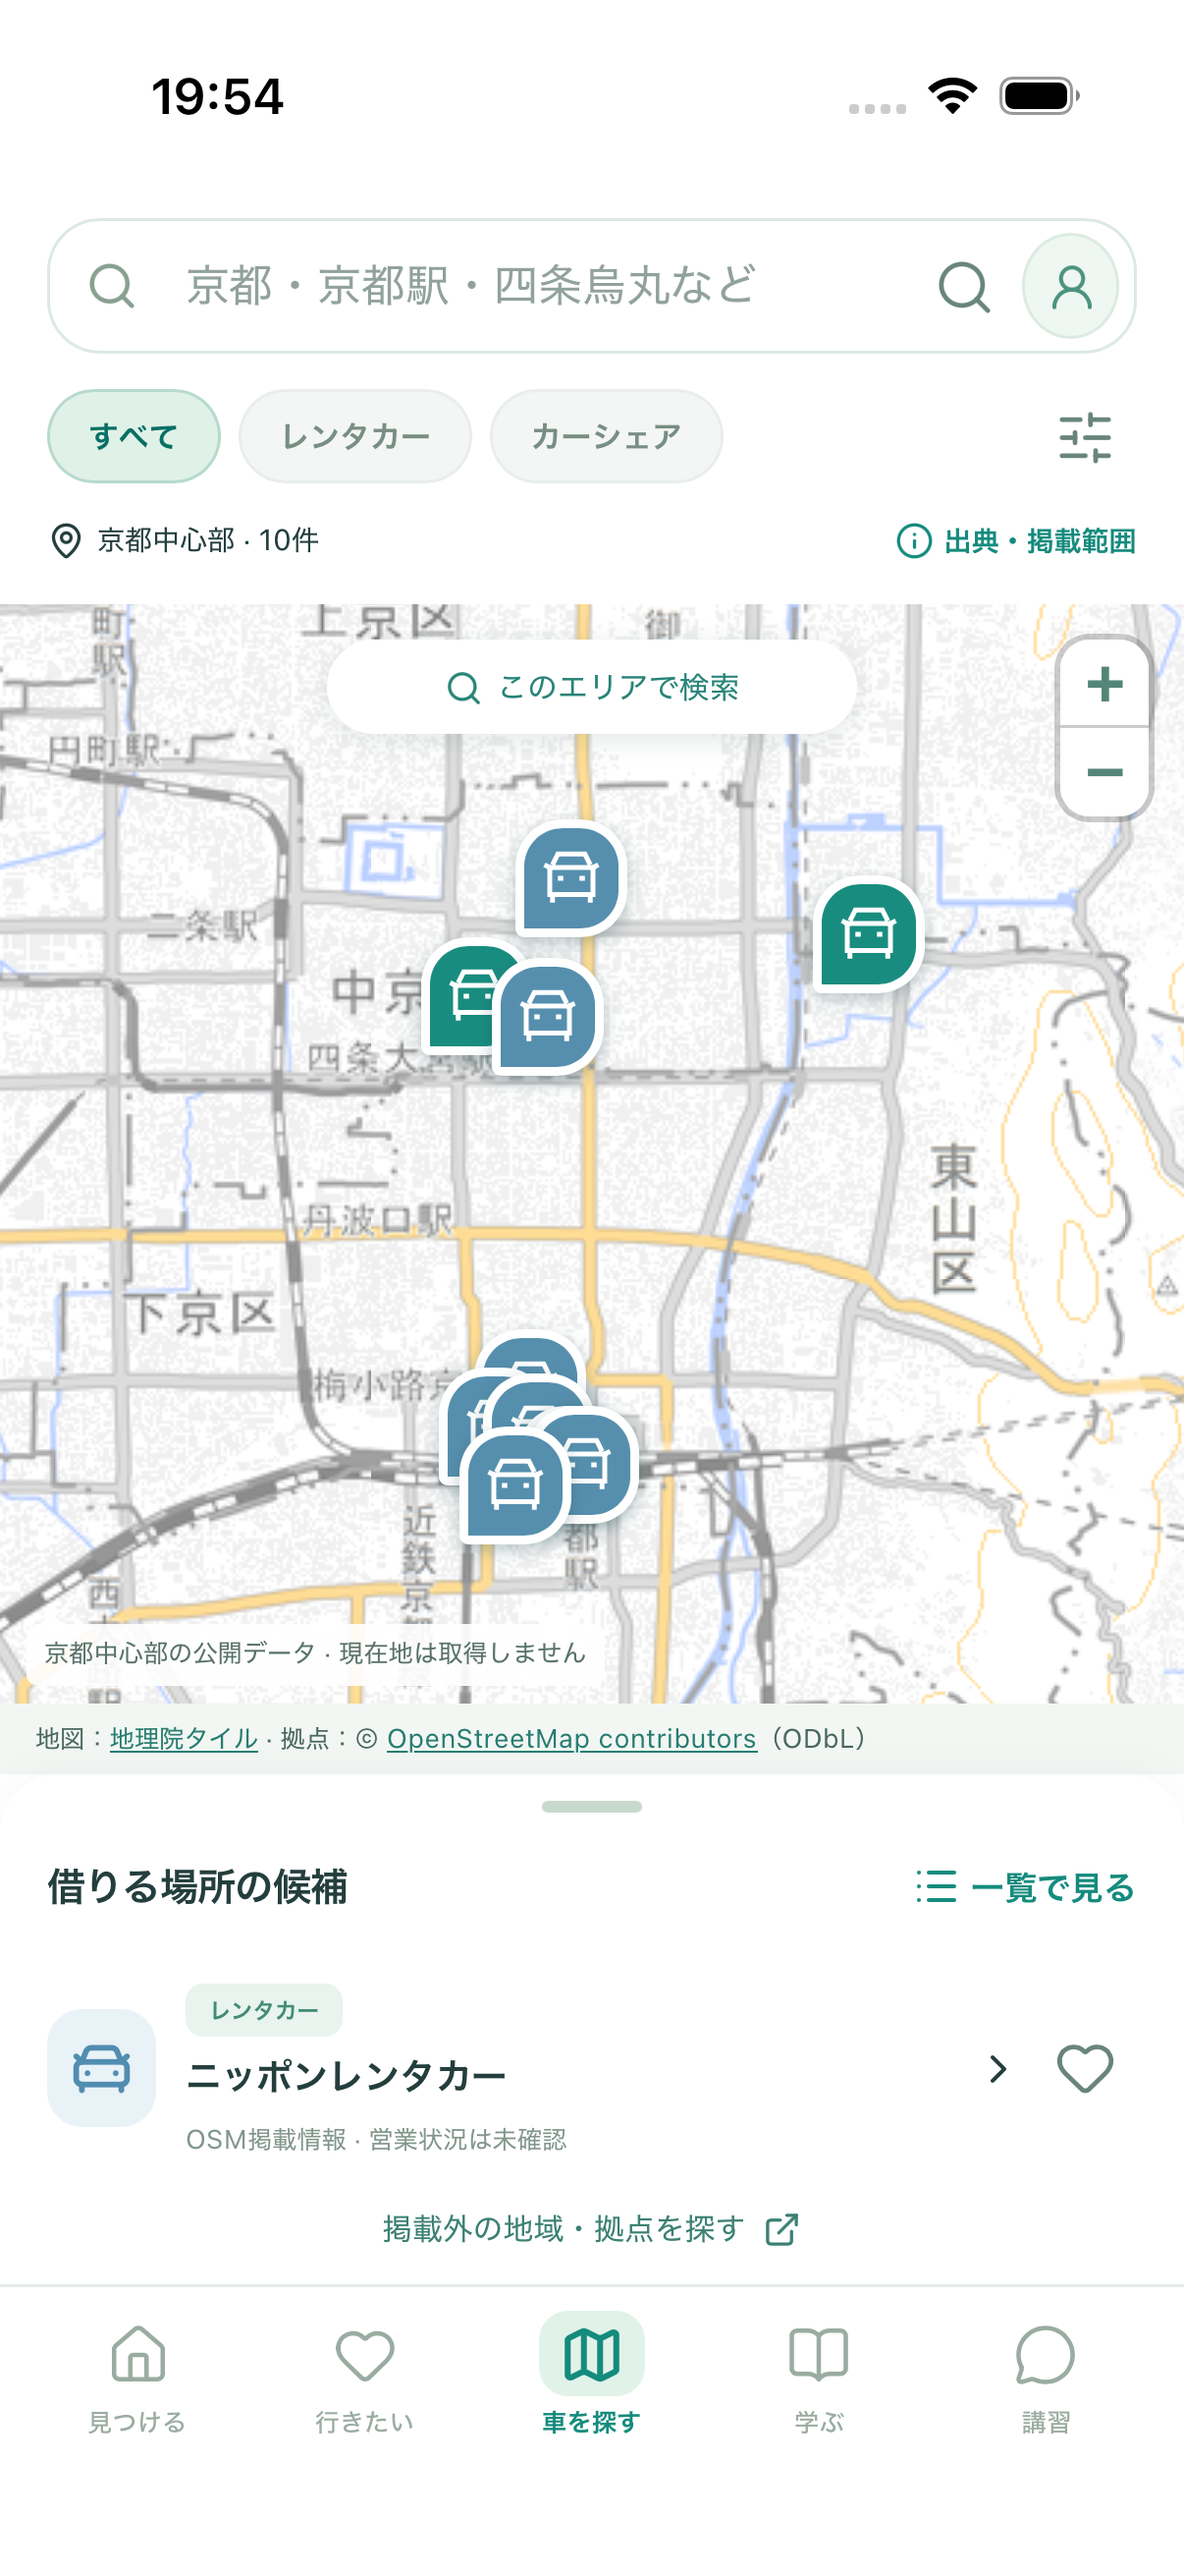
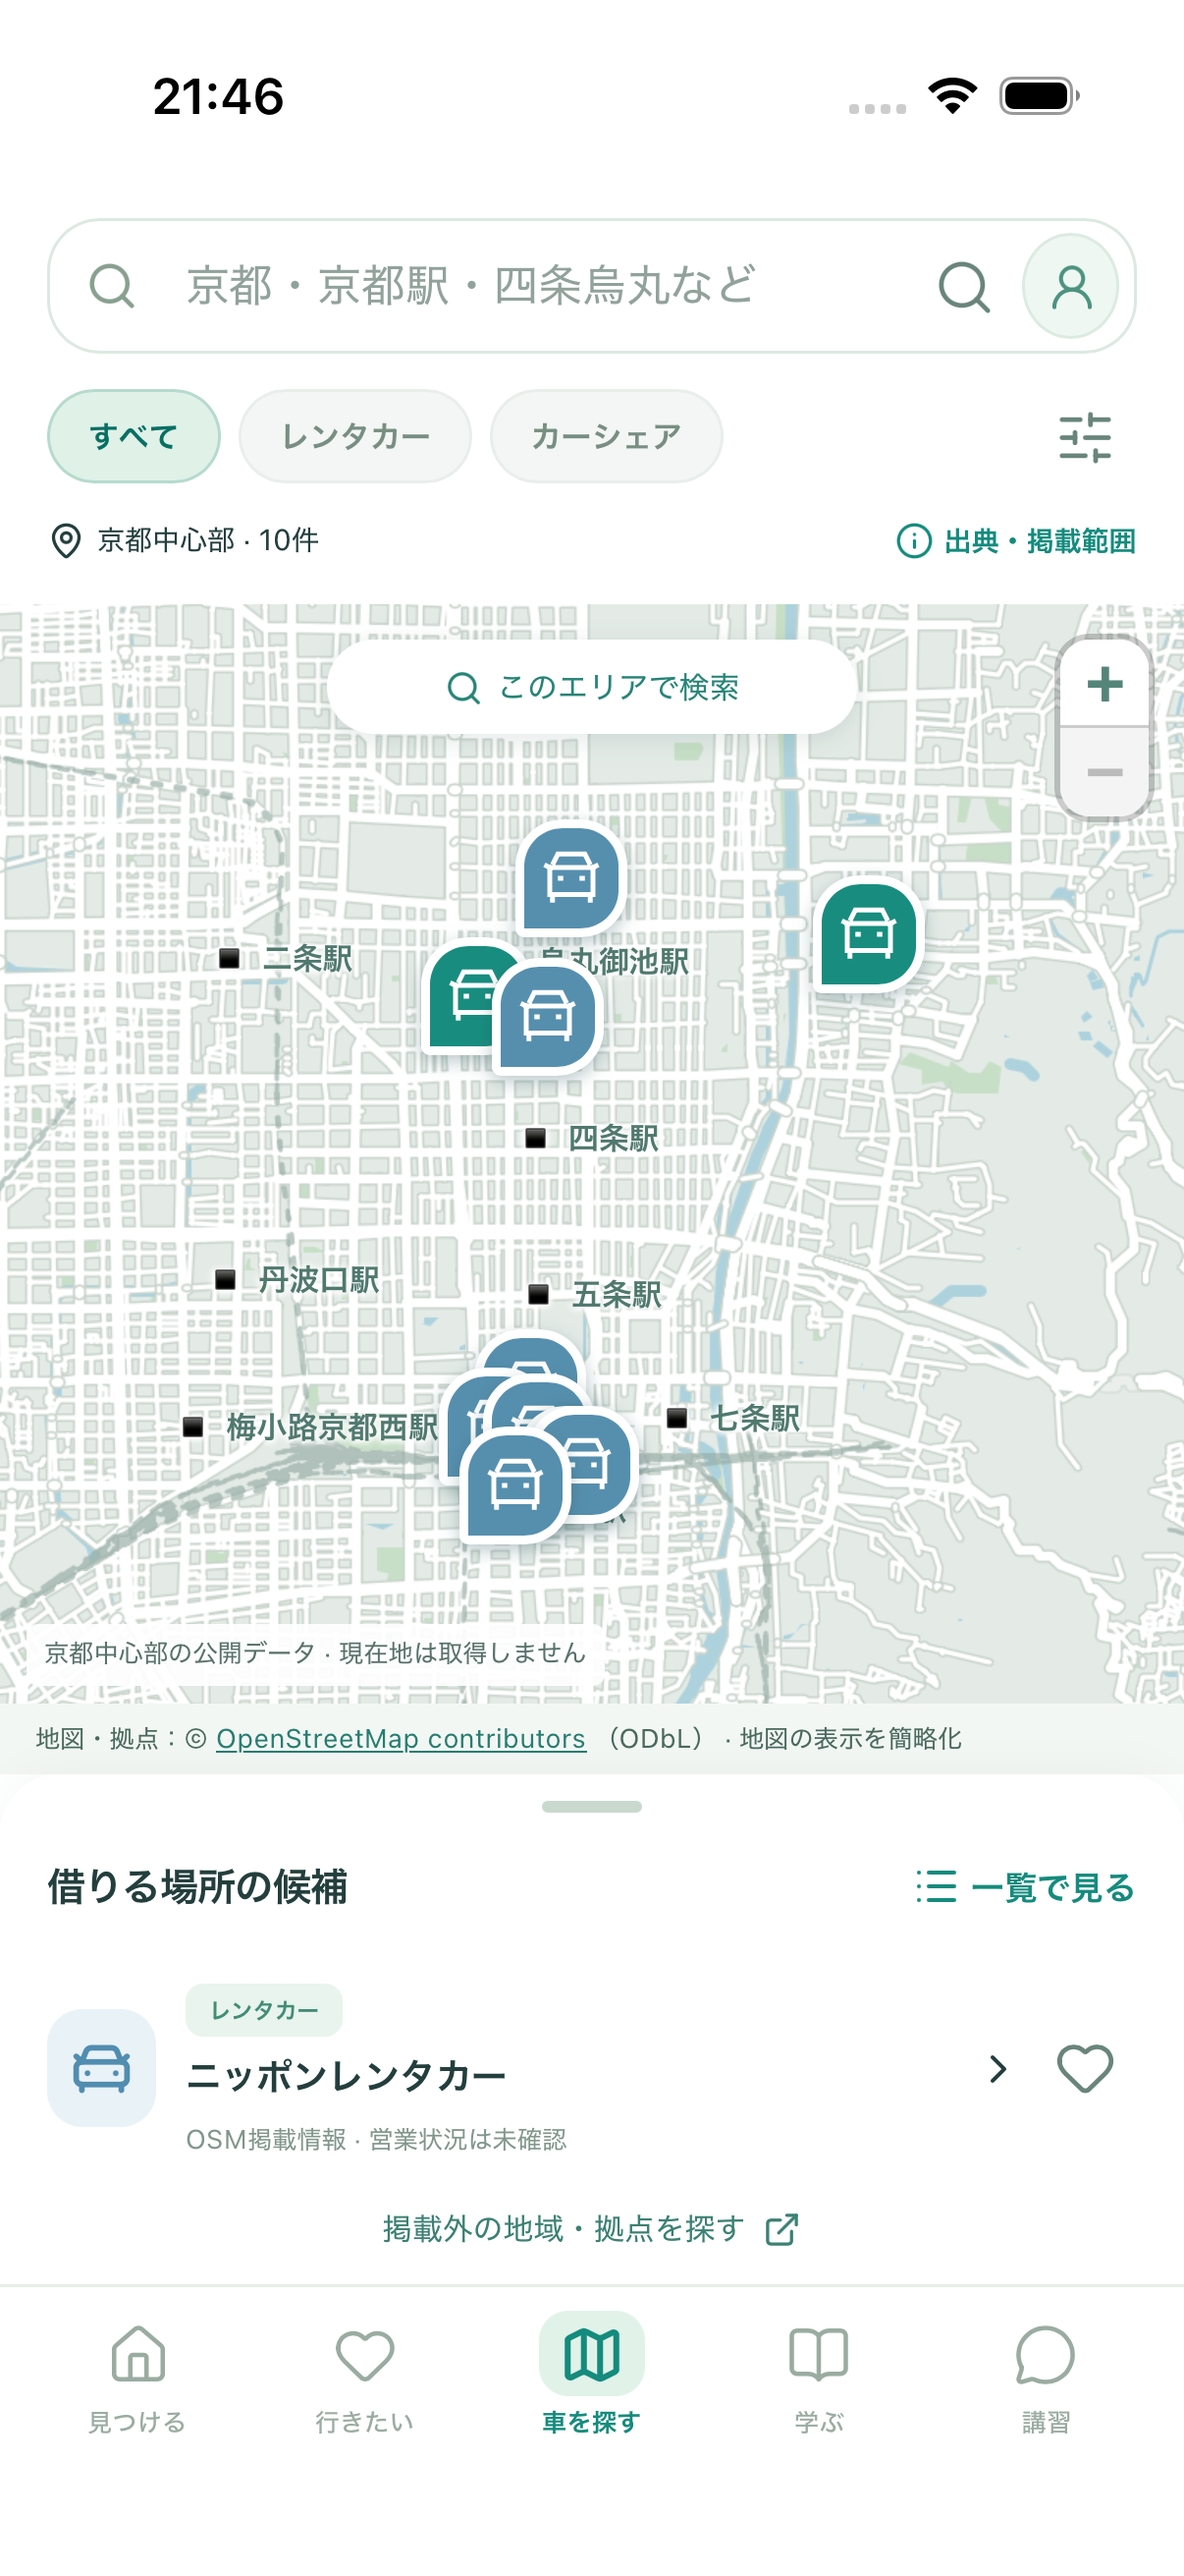
docs: record styled Kyoto map review and immutable data source

Changed region(s): [[0.0, 0.2162, 1.0, 0.6796], [0.1227, 0.0309, 0.2454, 0.0618]]

diff --git a/src/screens/RealCars.tsx b/src/screens/RealCars.tsx
@@ -602,7 +602,7 @@ export function CarMapSources() {
             </a>
           )}
           <p>
-            <SourceLink href="https://github.com/Greek-Academy/Let-s-go-anywhere/blob/codex/issue-75-car-search-links/src/data/kyoto-basemap.geo.json">
+            <SourceLink href="https://github.com/Greek-Academy/Let-s-go-anywhere/blob/5f9cf5645344c1227fa6859a810a6251cf9ff5b3/src/data/kyoto-basemap.geo.json">
               背景地図の配布データを開く
             </SourceLink>
           </p>

diff --git a/docs/reviews/car-search-links/README.md b/docs/reviews/car-search-links/README.md
@@ -44,7 +44,7 @@ Web：`http://127.0.0.1:5173/#/cars`（`npm run dev` 起動中）。iPhoneは `n
 
 ## iPhone 17シミュレーター
 
-専用のiPhone 17 / iOS 26.5で、実地図・ピン→詳細→保存→再起動後の車候補、外部ブラウザの開閉と条件復元を確認します。拡大→範囲検索→ピン選択も含め、2件のネイティブテストが成功しています。結果とCIへのリンクは[PR #76](https://github.com/Greek-Academy/Let-s-go-anywhere/pull/76)に記録します。
+専用のiPhone 17 / iOS 26.5で、実地図・ピン→詳細→保存→再起動後の車候補、外部ブラウザの開閉と条件復元を確認します。初回実装では外部ブラウザを含む2件が成功しました。今回の地図調整後は、拡大→範囲検索→ピン選択→保存→再起動のネイティブテスト1件と、PC／スマホChromium／WebKitの関連36件を再実行して成功しています。結果とCIへのリンクは[PR #76](https://github.com/Greek-Academy/Let-s-go-anywhere/pull/76)に記録します。
 
 テスト対象は `AppUITests/DrivePlusUITests/testRealStationMap` と `testCarSearchBrowserReturn`。個人データ入りのシミュレーターにはテストを実行しません。
 
